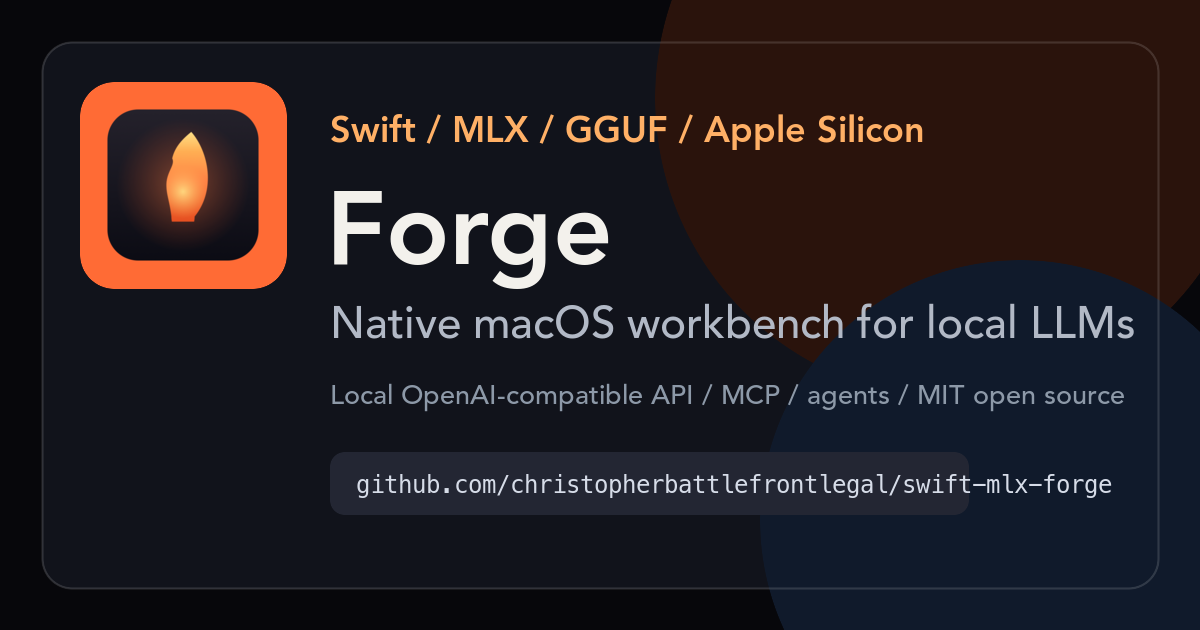
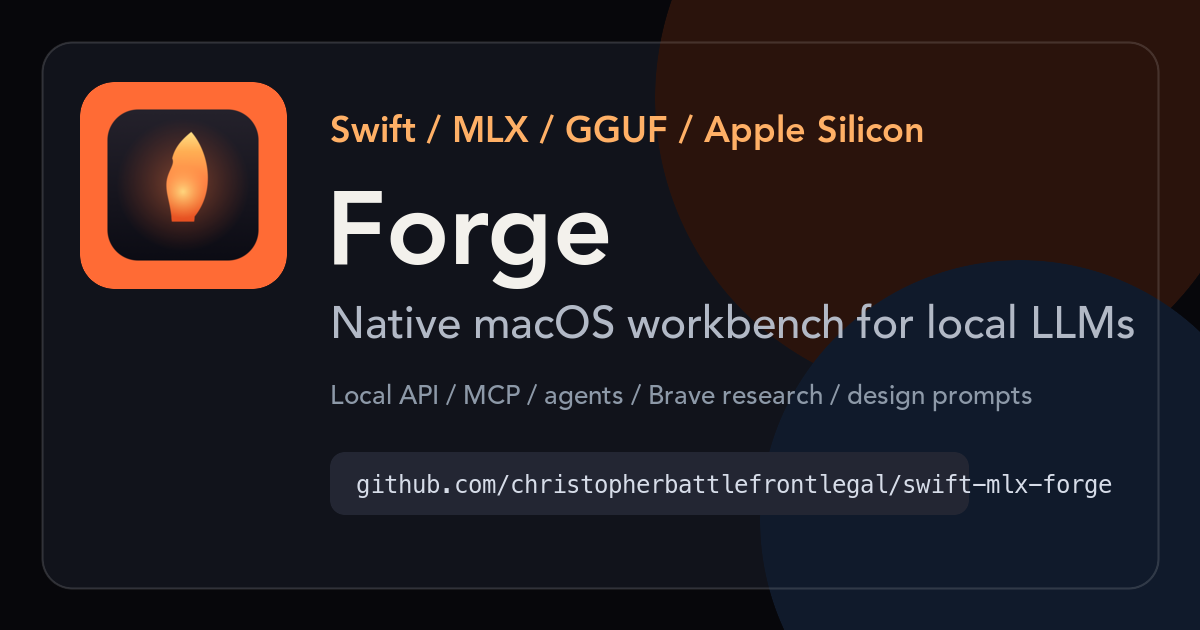
Showcase Forge workflow tools on site

Changed region(s): [[0.3083, 0.6032, 0.925, 0.6635]]

diff --git a/site/index.html b/site/index.html
@@ -6,13 +6,13 @@
     <title>Forge — Native macOS workbench for local LLMs on Apple Silicon</title>
     <meta
       name="description"
-      content="Forge is a native macOS app and SwiftPM workspace that runs MLX and in-process GGUF (llama.cpp) models on Apple Silicon, with a SwiftUI chat surface, a loopback OpenAI-compatible API server, MCP configuration, multi-agent orchestration, and optional cloud providers — all keys in Keychain."
+      content="Forge is a native macOS app and SwiftPM workspace that runs MLX and in-process GGUF models on Apple Silicon, with file/photo attachments, prompt libraries, Brave web research, a design prompt generator, a loopback OpenAI-compatible API server, MCP, multi-agent orchestration, and optional cloud providers."
     >
     <link rel="canonical" href="https://christopherbattlefrontlegal.github.io/swift-mlx-forge/">
     <meta property="og:title" content="Forge — Native Mac workbench for local LLMs">
     <meta
       property="og:description"
-      content="MLX + in-process GGUF on Apple Silicon. Native SwiftUI chat, loopback OpenAI-compatible API, MCP support, agent graphs, and optional cloud providers — MIT, open source."
+      content="MLX + in-process GGUF on Apple Silicon. Native SwiftUI chat, attachments, prompt libraries, Brave research, design prompts, local API, MCP, and agents — MIT, open source."
     >
     <meta property="og:type" content="website">
     <meta property="og:url" content="https://christopherbattlefrontlegal.github.io/swift-mlx-forge/">
@@ -25,7 +25,7 @@
     <meta name="twitter:title" content="Forge — Native Mac workbench for local LLMs">
     <meta
       name="twitter:description"
-      content="MLX + in-process GGUF on Apple Silicon. Native SwiftUI chat, local OpenAI-compatible API, MCP support, and agent graphs."
+      content="MLX + in-process GGUF on Apple Silicon. Native SwiftUI chat, attachments, Brave research, design prompts, local API, MCP, and agents."
     >
     <meta name="twitter:image" content="https://christopherbattlefrontlegal.github.io/swift-mlx-forge/assets/social-preview.png">
     <meta name="theme-color" content="#0a0a0f">
@@ -44,6 +44,7 @@
       <nav aria-label="Sections">
         <a href="#engines">Engines</a>
         <a href="#app">The app</a>
+        <a href="#workflows">Workflows</a>
         <a href="#api">Local API</a>
         <a href="#mcp">MCP</a>
         <a href="#agents">Agents</a>
@@ -61,6 +62,7 @@
     <nav id="mobile-nav" class="mobile-nav" aria-label="Mobile">
       <a href="#engines">Engines</a>
       <a href="#app">The app</a>
+      <a href="#workflows">Workflows</a>
       <a href="#api">Local API</a>
       <a href="#mcp">MCP</a>
       <a href="#agents">Agents</a>
@@ -84,7 +86,8 @@
             A native macOS workbench that runs <strong>MLX</strong> and in-process
             <strong>GGUF</strong> (llama.cpp) models side by side on Apple Silicon — with a
             SwiftUI chat surface, a loopback OpenAI-compatible API server, MCP configuration,
-            multi-agent orchestration, and optional cloud providers. Bring your own weights.
+            web research, prompt tools, multi-agent orchestration, and optional cloud providers.
+            Bring your own weights.
           </p>
           <div class="hero-actions" aria-label="Launch actions">
             <a class="button primary" href="https://github.com/christopherbattlefrontlegal/swift-mlx-forge">
@@ -252,6 +255,101 @@
               </p>
             </article>
           </div>
+        </div>
+      </section>
+
+      <!-- ============================== WORKFLOWS ============================== -->
+      <section id="workflows" class="band workflow-stack-band" aria-labelledby="workflows-title">
+        <div class="section-inner workflow-stack-layout">
+          <div class="section-heading reveal">
+            <p class="eyebrow">The operator loop</p>
+            <h2 id="workflows-title">The composer is a workbench, not a text box.</h2>
+            <p class="section-copy">
+              Forge wraps the chat surface with real working controls: mode tags, file intake,
+              prompt libraries, Brave-backed research, a bundled design prompt generator, and a
+              code loop that can hand work across planner, coder, auditor, fixer, and tester roles.
+            </p>
+          </div>
+
+          <div class="workflow-console reveal" aria-label="Forge workflow controls">
+            <div class="control-strip" aria-label="Composer modes">
+              <span>Depth: Deep</span>
+              <span>Style: Detailed</span>
+              <span>Deliverable: Code</span>
+              <span>Workflow: Research -> synthesize</span>
+            </div>
+            <div class="composer-frame">
+              <p class="composer-placeholder">
+                Attach a PDF, drop in a screenshot, select a prompt preset, turn on Brave, then
+                dispatch to local models and cloud agents.
+              </p>
+              <div class="composer-tools" aria-label="Composer tools">
+                <span>photo</span>
+                <span>file</span>
+                <span>prompts</span>
+                <span>design</span>
+                <span>web</span>
+                <span>think</span>
+                <span>enhance</span>
+                <span>agents</span>
+              </div>
+            </div>
+            <div class="live-bar">
+              <span class="pulse-dot" aria-hidden="true"></span>
+              <span>Agents: local 1, Claude, OpenRouter - streaming, citing, and monitoring live</span>
+            </div>
+          </div>
+        </div>
+
+        <div class="section-inner workflow-card-grid">
+          <article class="workflow-card reveal">
+            <span class="workflow-kicker">Context</span>
+            <h3>Photos, PDFs, code, JSON, Markdown.</h3>
+            <p>
+              Images attach to local VLM paths or MCP photo-review tools. PDFs are text-extracted;
+              text/code files are inlined into the composer with clipping guards.
+            </p>
+          </article>
+          <article class="workflow-card reveal">
+            <span class="workflow-kicker">Prompting</span>
+            <h3>Prompt folders become a library.</h3>
+            <p>
+              Add external prompt directories, browse by category, smart-select from the library,
+              and keep the active system prompt label visible in the inspector.
+            </p>
+          </article>
+          <article class="workflow-card reveal">
+            <span class="workflow-kicker">Design</span>
+            <h3>A bundled design prompt generator.</h3>
+            <p>
+              The app hosts the WebKit prompt builder over a private <code>forge-design://</code>
+              scheme, then pastes the generated prompt straight back into chat.
+            </p>
+          </article>
+          <article class="workflow-card reveal">
+            <span class="workflow-kicker">Research</span>
+            <h3>Brave Answers and research mode.</h3>
+            <p>
+              Web-grounded answers stream through Brave, with country/language settings, citation
+              parsing, usage tags, and a research mode for deeper synthesis.
+            </p>
+          </article>
+          <article class="workflow-card reveal">
+            <span class="workflow-kicker">Polish</span>
+            <h3>Prompt enhancement on demand.</h3>
+            <p>
+              A wand action rewrites rough prompts into clearer instructions through Anthropic or
+              OpenRouter, while preserving the top-bar depth/style/deliverable tags.
+            </p>
+          </article>
+          <article class="workflow-card reveal">
+            <span class="workflow-kicker">Automation</span>
+            <h3>Code loop and multi-agent dispatch.</h3>
+            <p>
+              Send the same task to loaded local models, Claude, and OpenRouter, or run the
+              planner -> coder -> auditor -> fixer -> tester loop when you want iteration.
+            </p>
+          </article>
         </div>
       </section>
 
@@ -622,6 +720,7 @@ swift run mlx-forge">Copy build command</button>
       </div>
       <nav class="footer-nav" aria-label="Footer">
         <a href="#engines">Engines</a>
+        <a href="#workflows">Workflows</a>
         <a href="#api">Local API</a>
         <a href="#mcp">MCP</a>
         <a href="#agents">Agents</a>

diff --git a/site/styles.css b/site/styles.css
@@ -600,6 +600,12 @@ pre code {
 .api-band {
   background: linear-gradient(180deg, rgba(127, 176, 255, 0.035), transparent 40%), #07070c;
 }
+.workflow-stack-band {
+  background:
+    radial-gradient(90% 80% at 100% 0%, rgba(255, 107, 53, 0.08), transparent 55%),
+    radial-gradient(90% 70% at 0% 100%, rgba(95, 208, 127, 0.055), transparent 58%),
+    #08080e;
+}
 .security-band {
   background: #08080e;
 }
@@ -731,6 +737,136 @@ pre code {
 .feature-card p {
   color: var(--muted);
   font-size: 0.96rem;
+  line-height: 1.6;
+}
+
+/* ============================================================ WORKFLOW STACK */
+.workflow-stack-layout {
+  display: grid;
+  grid-template-columns: minmax(0, 0.92fr) minmax(320px, 1fr);
+  gap: clamp(28px, 5vw, 64px);
+  align-items: center;
+}
+.workflow-console {
+  overflow: hidden;
+  border: 1px solid var(--line-2);
+  border-radius: var(--radius);
+  background:
+    linear-gradient(180deg, rgba(255, 255, 255, 0.065), rgba(255, 255, 255, 0.025)),
+    #090a10;
+  box-shadow: 0 28px 80px rgba(0, 0, 0, 0.36);
+}
+.control-strip {
+  display: grid;
+  grid-template-columns: repeat(2, minmax(0, 1fr));
+  gap: 1px;
+  background: var(--line);
+}
+.control-strip span {
+  min-width: 0;
+  padding: 13px 14px;
+  background: rgba(14, 15, 21, 0.95);
+  color: var(--muted);
+  font-size: 0.78rem;
+  font-weight: 760;
+  overflow-wrap: anywhere;
+}
+.composer-frame {
+  margin: 16px;
+  padding: 18px;
+  border: 1px solid var(--line);
+  border-radius: var(--radius-sm);
+  background: rgba(5, 5, 9, 0.72);
+}
+.composer-placeholder {
+  min-height: 112px;
+  margin: 0;
+  color: #d5d9e3;
+  font-size: 1rem;
+  line-height: 1.65;
+}
+.composer-tools {
+  display: flex;
+  flex-wrap: wrap;
+  gap: 8px;
+  margin-top: 18px;
+}
+.composer-tools span {
+  padding: 6px 9px;
+  border: 1px solid var(--line);
+  border-radius: 7px;
+  background: rgba(255, 255, 255, 0.055);
+  color: var(--quiet);
+  font-family: ui-monospace, "SF Mono", Menlo, monospace;
+  font-size: 0.72rem;
+  font-weight: 700;
+}
+.composer-tools span:nth-child(4),
+.composer-tools span:nth-child(5),
+.composer-tools span:nth-child(7),
+.composer-tools span:nth-child(8) {
+  color: var(--ember-glow);
+  border-color: rgba(255, 107, 53, 0.28);
+  background: rgba(255, 107, 53, 0.08);
+}
+.live-bar {
+  display: flex;
+  align-items: center;
+  gap: 10px;
+  padding: 13px 16px;
+  border-top: 1px solid var(--line);
+  color: var(--muted);
+  font-family: ui-monospace, "SF Mono", Menlo, monospace;
+  font-size: 0.76rem;
+  line-height: 1.45;
+}
+.pulse-dot {
+  flex: 0 0 auto;
+  width: 8px;
+  height: 8px;
+  border-radius: 50%;
+  background: var(--signal);
+  box-shadow: 0 0 0 rgba(95, 208, 127, 0.58);
+  animation: pulse 1.7s var(--ease) infinite;
+}
+@keyframes pulse {
+  70% {
+    box-shadow: 0 0 0 12px rgba(95, 208, 127, 0);
+  }
+  100% {
+    box-shadow: 0 0 0 0 rgba(95, 208, 127, 0);
+  }
+}
+.workflow-card-grid {
+  display: grid;
+  grid-template-columns: repeat(3, minmax(0, 1fr));
+  gap: 14px;
+  margin-top: clamp(26px, 5vw, 48px);
+}
+.workflow-card {
+  padding: 24px;
+  border: 1px solid var(--line);
+  border-radius: var(--radius);
+  background:
+    radial-gradient(90% 70% at 100% 0%, rgba(255, 107, 53, 0.055), transparent 55%),
+    var(--panel);
+}
+.workflow-kicker {
+  display: inline-flex;
+  margin-bottom: 26px;
+  color: var(--ember-glow);
+  font-family: ui-monospace, "SF Mono", Menlo, monospace;
+  font-size: 0.7rem;
+  font-weight: 800;
+  letter-spacing: 0.08em;
+  text-transform: uppercase;
+}
+.workflow-card h3 {
+  font-size: 1.08rem;
+}
+.workflow-card p {
+  color: var(--muted);
+  font-size: 0.94rem;
   line-height: 1.6;
 }
 
@@ -1046,12 +1182,14 @@ pre code {
   }
   .two-column,
   .build-layout,
-  .apple-fm-layout {
+  .apple-fm-layout,
+  .workflow-stack-layout {
     grid-template-columns: 1fr;
   }
   .two-column > *,
   .build-layout > *,
-  .apple-fm-layout > * {
+  .apple-fm-layout > *,
+  .workflow-stack-layout > * {
     min-width: 0;
   }
   .feature-grid,
@@ -1060,7 +1198,8 @@ pre code {
   .cli-grid,
   .provider-grid,
   .security-grid,
-  .mcp-grid {
+  .mcp-grid,
+  .workflow-card-grid {
     grid-template-columns: repeat(2, minmax(0, 1fr));
   }
   .security-grid,
@@ -1097,7 +1236,8 @@ pre code {
   .cli-grid,
   .provider-grid,
   .security-grid,
-  .mcp-grid {
+  .mcp-grid,
+  .workflow-card-grid {
     grid-template-columns: 1fr;
   }
   .brand-name {
